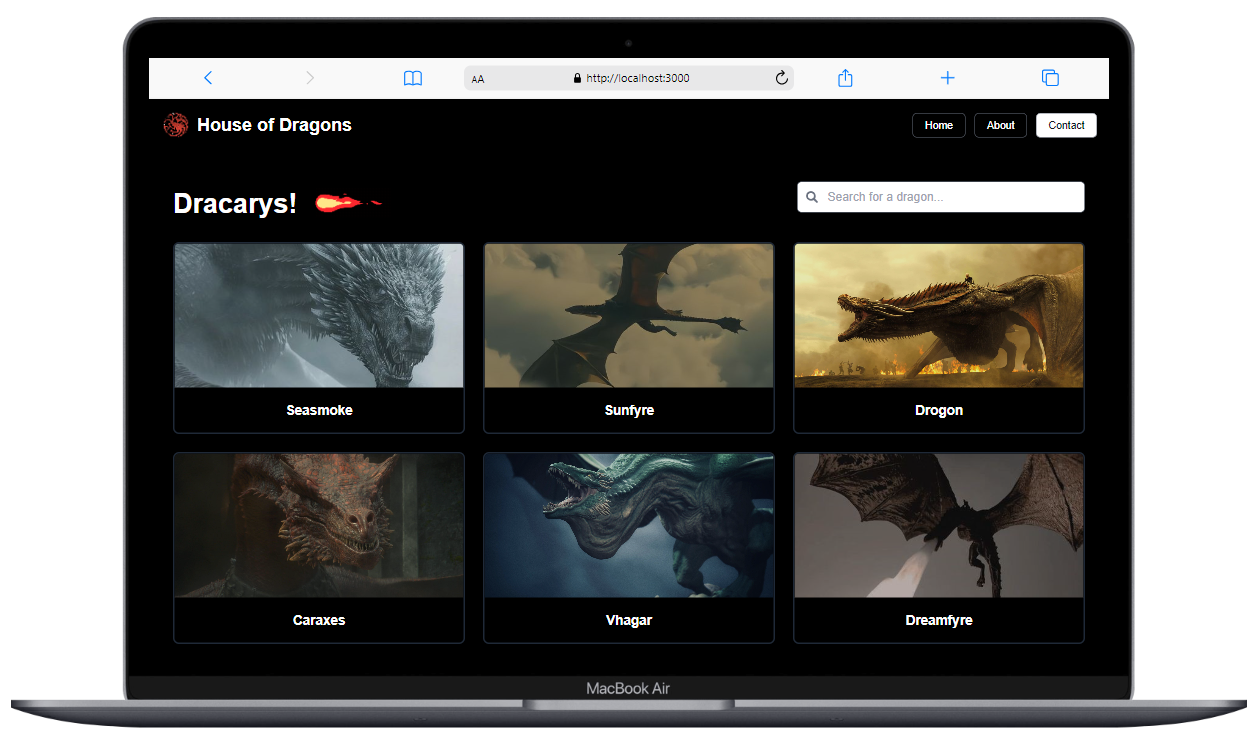
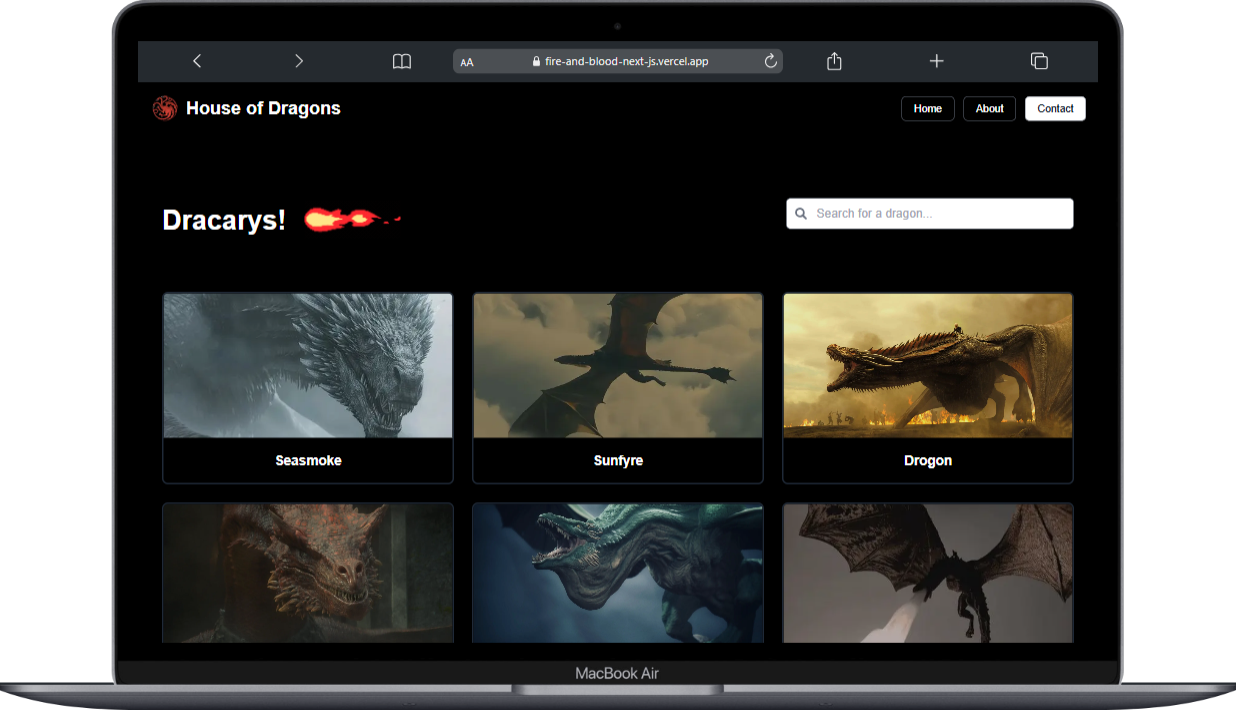
Updated Images

diff --git a/README.md b/README.md
@@ -43,6 +43,11 @@ FireAndBloodNextJS is a Next.js website dedicated to showcasing dragons and char
 
 5. Open your browser and visit `http://localhost:3000` to view the website.
 
+## Live Demo
+
+You can see its demo; it is deployed at this link:
+https://fire-and-blood-next-js.vercel.app/
+
 ## Contact
 
 For any inquiries or support, please contact [usama.fayyaz157@gmail.com].
